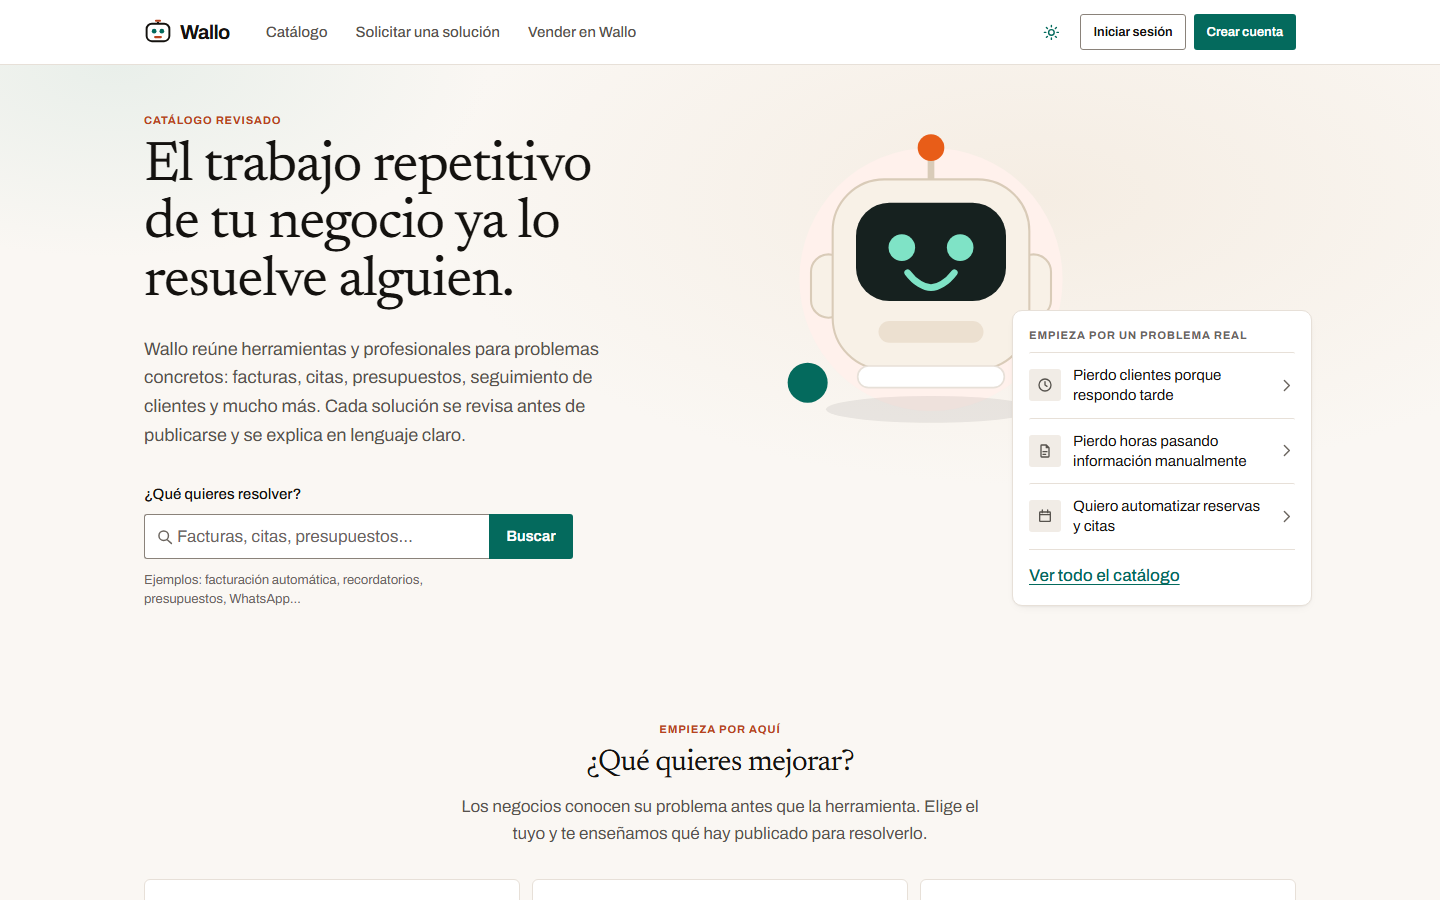
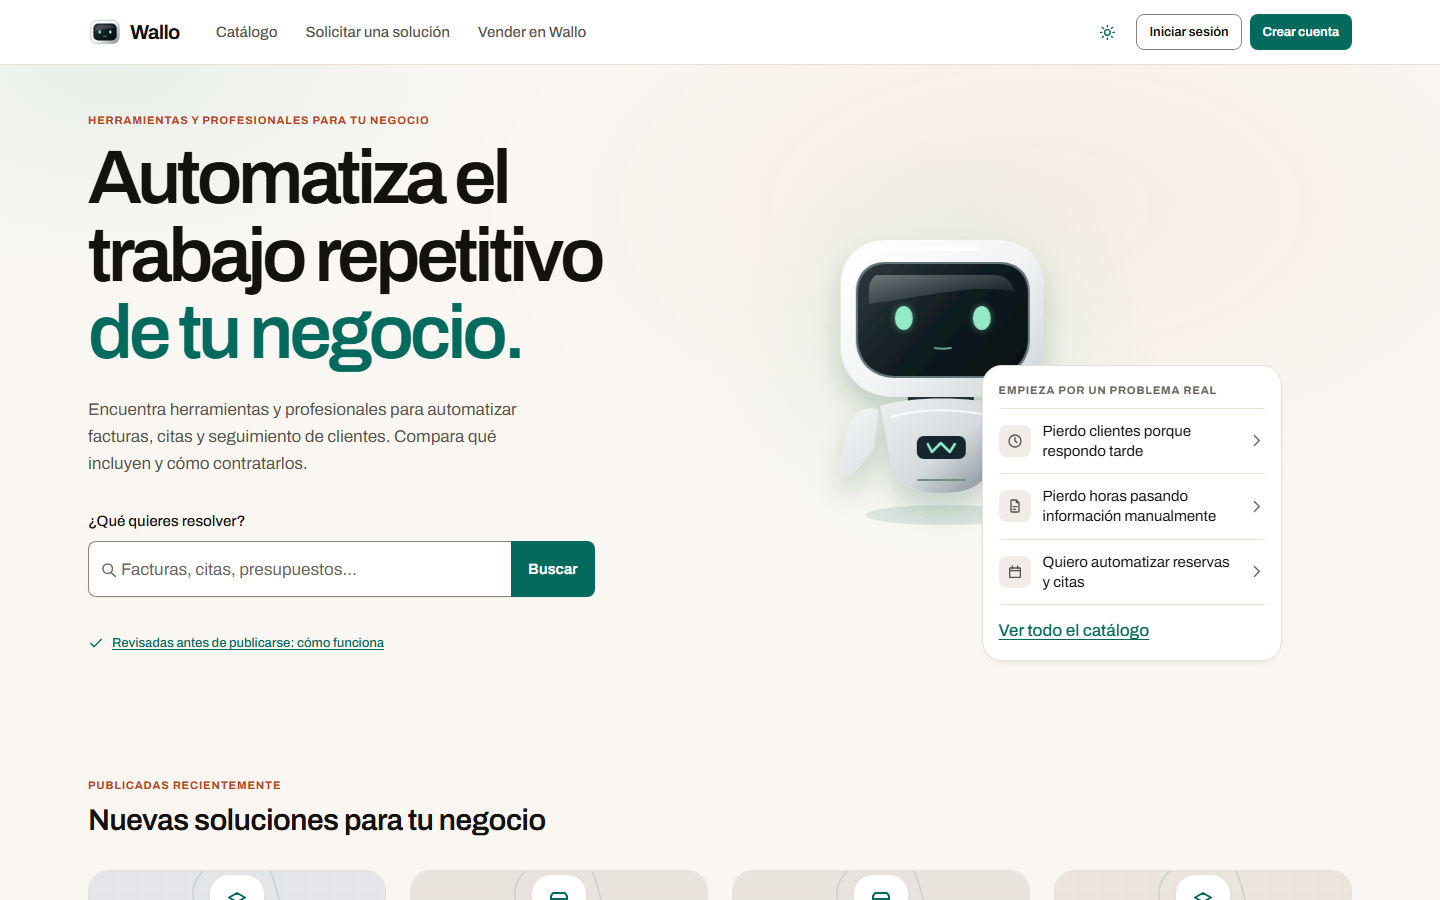
Anclar las capas del fondo a lo que acompañan
Las tres capas iban contra el viewport o contra rem absolutos desde el top del
documento, así que solo cuadraban a un ancho y se desalineaban al crecer el
contenido.

- Elimina .site-window-lights, la trama de puntos sobre los edificios, que caía
  en la zona que había que dejar limpia. Fuera también su keyframe windowGlow.
- El cono de la lámpara pasa a ir en % dentro de .site-backdrop-frame, donde
  está la pantalla de la lámpara en la foto. Antes la lámpara se veía apagada y
  la luz quedaba suelta abajo a la izquierda; ahora nace de ella y acompaña al
  parallax. En móvil deja de verse, porque a ese ancho la foto se recorta y la
  lámpara queda fuera de encuadre.
- Los glows se mueven a ProjectsSection, en % de la sección en vez de rem
  absolutos. Se quedan donde estaban (36 / 62,1 / 87,7rem) pero ahora siguen a
  Proyectos si se añaden filas.
- El wash inferior llega a bottom-0 con las paradas en rem, así que cubre hasta
  el final del documento sin depender de cuánto mida.

Actualiza también la captura de Walle AI con su rediseño de identidad.

diff --git a/src/App.jsx b/src/App.jsx
@@ -49,22 +49,21 @@ function App() {
             <div
               className="site-backdrop-frame"
               style={{ backgroundImage: `url(${backgroundPpal})` }}
-            >
-              <div className="site-window-lights hidden md:block" />
-            </div>
+            />
           </Motion.div>
           <div className="absolute inset-0 bg-[linear-gradient(180deg,rgba(2,6,23,0.05)_0%,rgba(2,6,23,0.08)_16%,rgba(2,6,23,0.16)_34%,rgba(2,6,23,0.32)_56%,rgba(2,6,23,0.54)_76%,rgba(2,6,23,0.76)_90%,#02050b_100%)]" />
           {/* Scrim lateral: da contraste al texto del hero sin apagar la foto entera. */}
           <div className="absolute inset-0 bg-[linear-gradient(90deg,rgba(4,8,18,0.72)_0%,rgba(4,8,18,0.46)_34%,rgba(4,8,18,0.12)_58%,transparent_78%)]" />
           <div className="absolute inset-0 bg-[radial-gradient(circle_at_50%_0%,rgba(255,255,255,0.05),transparent_26%)]" />
 
-          {/* Luces del altavoz. Mismo anclaje que la foto, pero por encima de los
-              scrims para que no las apague el degradado. */}
+          {/* Luces de la escena: lámpara y altavoz. Mismo anclaje que la foto,
+              pero por encima de los scrims para que no las apague el degradado. */}
           <Motion.div
             style={{ y: backdropY }}
             className="absolute inset-x-0 top-[-5rem] h-[66rem]"
           >
             <div className="site-backdrop-frame">
+              <div className="site-lamp-cone" aria-hidden="true" />
               <div className="site-speaker hidden md:block" aria-hidden="true">
                 <i />
               </div>
@@ -78,11 +77,11 @@ function App() {
           />
           <div className="absolute inset-0 bg-[linear-gradient(180deg,rgba(2,6,23,0)_0%,rgba(2,6,23,0.06)_18%,rgba(2,6,23,0.14)_38%,rgba(2,6,23,0.3)_62%,rgba(2,6,23,0.56)_82%,rgba(2,6,23,0.82)_100%)]" />
         </div>
-        <div className="absolute inset-x-0 top-[54rem] h-[70rem] bg-[linear-gradient(180deg,rgba(11,18,32,0)_0%,rgba(11,18,32,0.34)_20%,rgba(12,20,35,0.72)_52%,rgba(10,17,30,0.96)_100%)]" />
-        <div className="absolute left-1/2 top-[36rem] h-[14rem] w-[42rem] -translate-x-1/2 rounded-full bg-sky-200/5 blur-[150px]" />
-        <div className="absolute right-[8%] top-[62rem] h-[16rem] w-[26rem] rounded-full bg-cyan-200/5 blur-[180px]" />
-        <div className="site-lamp-cone absolute left-[-1.5rem] top-[7.5rem] h-[18rem] w-[22rem] sm:left-[1.8rem] sm:top-[9.4rem]" />
-        <div className="absolute left-1/2 top-[88rem] h-[18rem] w-[40rem] -translate-x-1/2 rounded-full bg-white/[0.035] blur-[180px]" />
+        {/* Wash inferior. Las paradas van en rem para que la transición ocupe el
+            mismo tramo de siempre, y `bottom-0` la prolonga hasta el final del
+            documento, crezca lo que crezca el contenido. Los glows puntuales ya
+            no viven aquí: cada sección lleva el suyo. */}
+        <div className="absolute inset-x-0 bottom-0 top-[54rem] bg-[linear-gradient(180deg,rgba(11,18,32,0)_0rem,rgba(11,18,32,0.34)_14rem,rgba(12,20,35,0.72)_36rem,rgba(10,17,30,0.96)_70rem)]" />
         <div className="site-vignette absolute inset-0" />
         <div className="absolute inset-x-0 top-0 h-px bg-gradient-to-r from-transparent via-white/10 to-transparent" />
       </div>

diff --git a/src/index.css b/src/index.css
@@ -111,7 +111,16 @@ p {
     radial-gradient(circle at center, transparent 48%, rgba(2, 6, 23, 0.28) 78%, rgba(2, 6, 23, 0.52) 100%);
 }
 
+/* El cono nace en la pantalla de la lámpara, que está al 9,6% / 31,4% de la
+   foto. Va en % dentro de .site-backdrop-frame como el resto de capas, así que
+   sigue a la lámpara a cualquier ancho; antes se posicionaba contra el viewport
+   y solo cuadraba a uno. */
 .site-lamp-cone {
+  position: absolute;
+  left: 7%;
+  top: 30%;
+  width: 28%;
+  height: 36%;
   background:
     linear-gradient(
       118deg,
@@ -143,31 +152,6 @@ p {
   background-position: center;
   background-repeat: no-repeat;
   background-size: 100% 100%;
-}
-
-.site-window-lights {
-  position: absolute;
-  left: 10%;
-  top: 6%;
-  width: 29%;
-  height: 58%;
-  opacity: 0.34;
-  background-image:
-    radial-gradient(circle, rgba(226, 246, 255, 0.84) 0 1.1px, transparent 1.35px),
-    radial-gradient(circle, rgba(125, 211, 252, 0.56) 0 1px, transparent 1.25px),
-    radial-gradient(circle, rgba(255, 244, 214, 0.7) 0 1px, transparent 1.25px);
-  background-position:
-    0 0,
-    18px 26px,
-    42px 12px;
-  background-size:
-    58px 42px,
-    76px 48px,
-    94px 56px;
-  clip-path: polygon(6% 5%, 78% 0, 96% 100%, 0 96%);
-  mix-blend-mode: screen;
-  transform: perspective(34rem) rotateY(8deg) skewY(-1deg);
-  animation: windowGlow 12s ease-in-out infinite;
 }
 
 /* Capas vivas de la ciudad, el monitor y el altavoz. Todas van en % dentro de
@@ -305,21 +289,6 @@ p {
   }
 }
 
-@keyframes windowGlow {
-  0%,
-  100% {
-    opacity: 0.22;
-  }
-
-  38% {
-    opacity: 0.34;
-  }
-
-  68% {
-    opacity: 0.26;
-  }
-}
-
 @keyframes lampBreath {
   0%,
   100% {
@@ -390,14 +359,6 @@ p {
   100% {
     opacity: 0;
     transform: translate3d(52%, -54%, 0) scale(1.44, 1.2) rotate(5deg);
-  }
-}
-
-@media (max-width: 640px) {
-  .site-lamp-cone {
-    filter: blur(24px);
-    opacity: 0.42;
-    transform: rotate(9deg) scale(0.82);
   }
 }
 

diff --git a/src/components/ProjectsSection.jsx b/src/components/ProjectsSection.jsx
@@ -14,6 +14,16 @@ function ProjectsSection() {
       className="relative scroll-mt-24 py-10 sm:py-14"
     >
       <div className="absolute left-1/2 top-0 -z-10 h-full w-screen -translate-x-1/2 border-y border-white/[0.04] bg-[linear-gradient(180deg,rgba(8,15,28,0.4),rgba(10,18,32,0.16)_46%,rgba(8,15,28,0.32))]" />
+
+      {/* Glows del fondo. El envoltorio mide el ancho del viewport y el alto de
+          la sección, así que van en % de Proyectos y la siguen aunque se añadan
+          filas, en vez de ir a rem absolutos desde el top del documento. El
+          primero sobresale por arriba: es el que cierra la bajada del hero. */}
+      <div className="pointer-events-none absolute left-1/2 top-0 -z-10 h-full w-screen -translate-x-1/2">
+        <div className="absolute left-1/2 top-[-15rem] h-[14rem] w-[42rem] -translate-x-1/2 rounded-full bg-sky-200/5 blur-[150px]" />
+        <div className="absolute right-[8%] top-[17%] h-[16rem] w-[26rem] rounded-full bg-cyan-200/5 blur-[180px]" />
+        <div className="absolute left-1/2 top-[56%] h-[18rem] w-[40rem] -translate-x-1/2 rounded-full bg-white/[0.035] blur-[180px]" />
+      </div>
       <div className="flex flex-col gap-8 sm:gap-9">
         <SectionHeading
           eyebrow="Proyectos"
